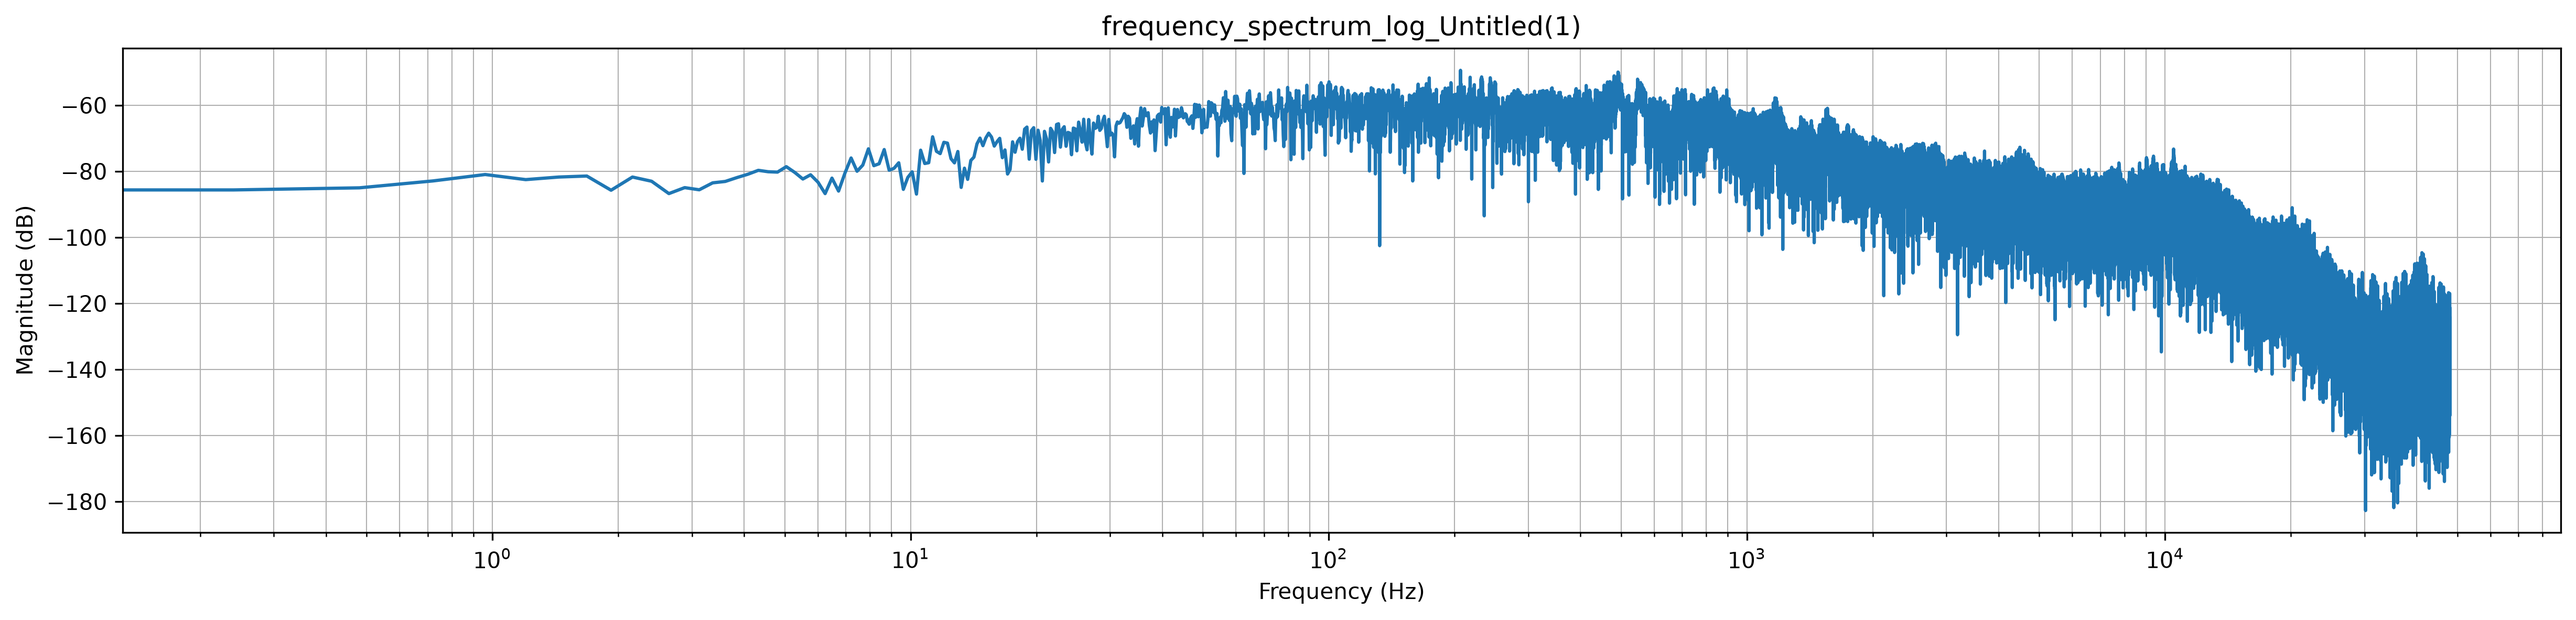
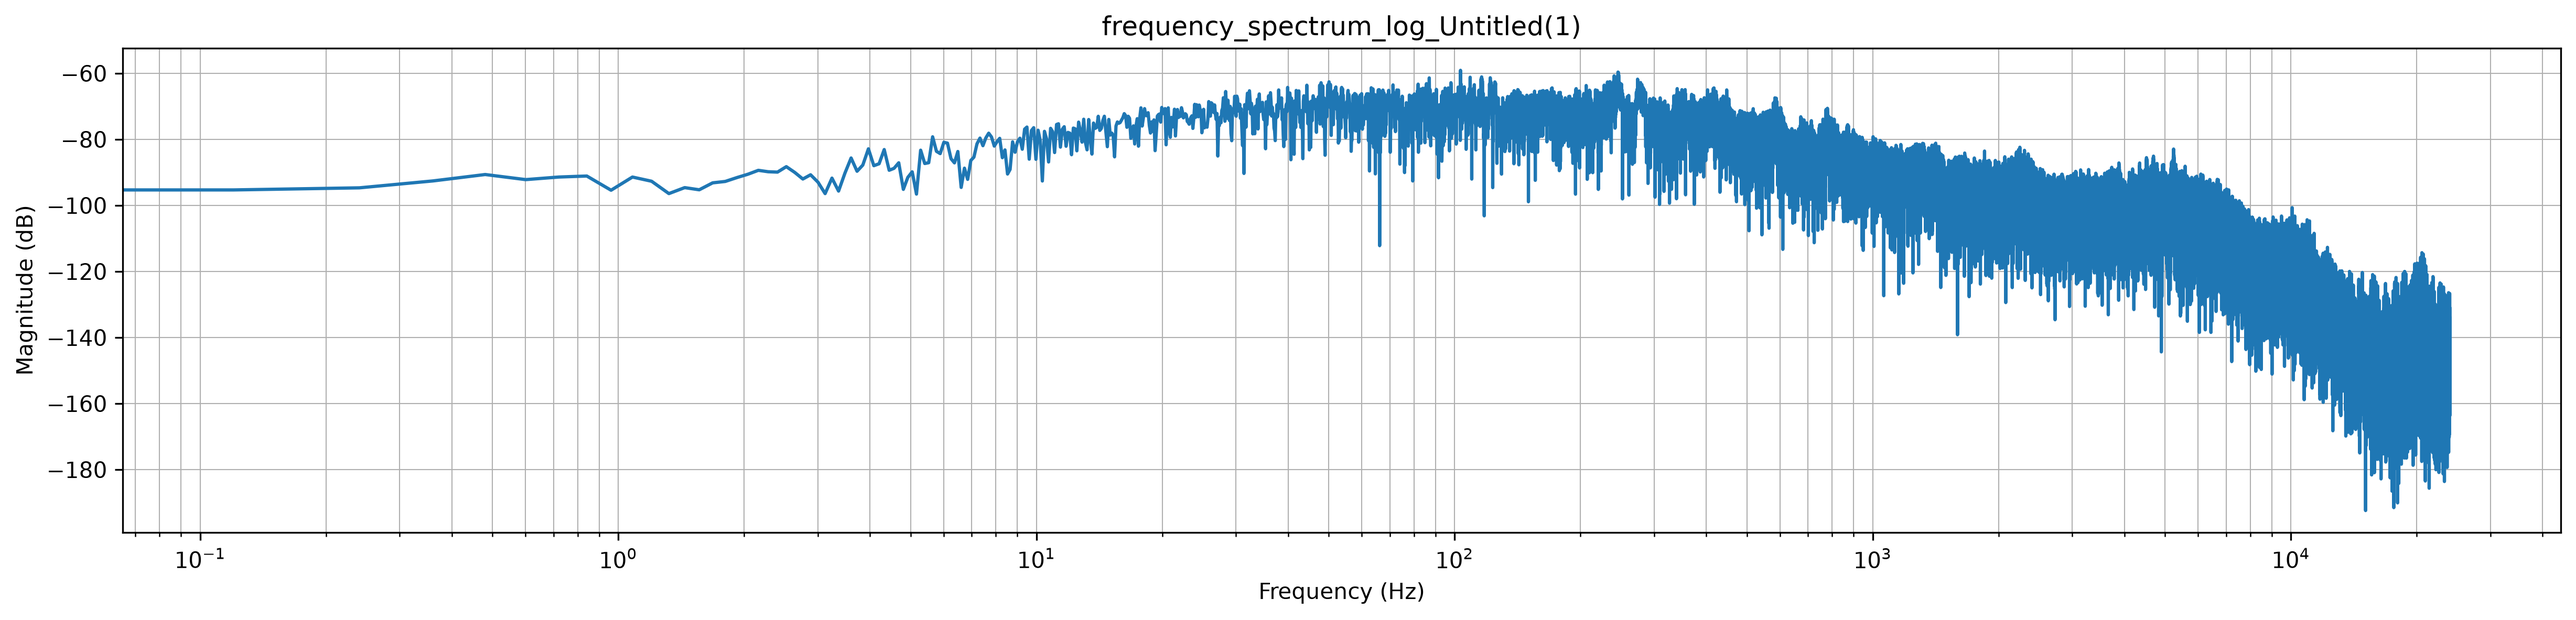
JM - Implement nprmalization if the input file isn't in np.float32 format

diff --git a/spectrum-analysis.py b/spectrum-analysis.py
@@ -1,0 +1,89 @@
+import numpy as np
+import matplotlib.pyplot as plt
+from pathlib import Path
+from scipy.io import wavfile
+
+IMAGES_DIR = Path("images")
+IMAGES_DIR.mkdir(parents=True, exist_ok=True)
+
+def read_wav_file(file):
+    # open the wav file
+    sample_rate, data = wavfile.read(file)
+
+    time = np.arange(len(data)) / sample_rate
+
+    file_name = Path(file).stem
+
+    # force the data to mono by only taking the first channel if a stereo input was given
+    if data.ndim > 1:
+        data = data[:, 0]
+
+    # Normalize the input to a [-1:1] range - 16-bit PCM files are integers from [-32,768:32,767]
+    # which is why we have to divide them by 32768
+    if data.dtype == np.int16:
+        # 16-bit integer PCM
+        data = data.astype(np.float32) / 32768.0
+    elif data.dtype == np.int32:
+        # 32-bit integer PCM
+        data = data.astype(np.float32) / 2147483648.0
+    elif data.dtype == np.uint8:
+        # 8-bit integer PCM (unsigned, centered at 128)
+        data = (data.astype(np.float32) - 128) / 128
+    # if data is already np.float32, it is already normalized and sits in the range of [-1:1]
+
+    return sample_rate, data, time, file_name
+
+def plot_time_spectrum(time, data, title, original_file_name = ""):
+    plt.figure(figsize=(20, 4))
+    plt.plot(time, data)
+
+    plt.title(f"{title}_{original_file_name}")
+    plt.xlabel('Time (s)')
+    plt.ylabel('Amplitude')
+    plt.grid(True, which='both', linestyle='-', linewidth=0.5)
+    
+    plt.savefig(IMAGES_DIR / f"{title}_{original_file_name}.png", dpi=300, bbox_inches='tight')
+    plt.close()
+
+def plot_frequency_spectrum(dB, data, sample_rate, title, original_file_name = ""):
+    N = len(data)
+
+    # convert spectrum data to frequency domain, remove all frequencies > Nyquist frequency, and normalize the magnitudes
+    spectrum = np.abs(np.fft.fft(data))[:N // 2] / N
+    spectrum[1:-1] *= 2
+
+    # Create an array of len(spectrum) evenly spaced values from 0 to sample_rate Hz
+    frequency_resolution = sample_rate / N
+    frequencies = np.arange(0, N // 2) * frequency_resolution
+
+    if dB:
+        # convert y-axis to decibels
+        spectrum = 20* np.log10(spectrum)
+
+    plt.figure(figsize=(20, 4))
+    plt.semilogx(frequencies, spectrum)
+    plt.title(f"{title}_{original_file_name}")
+    plt.xlabel("Frequency (Hz)")
+    if dB:
+        plt.ylabel("Magnitude (dB)")
+    else:
+        plt.ylabel("Magnitude")
+    plt.grid(True, which='both', linestyle='-', linewidth=0.5)
+    plt.savefig(IMAGES_DIR / f"{title}_{original_file_name}.png", dpi=300, bbox_inches="tight")
+    plt.close()
+
+
+if __name__ == "__main__":
+    file_paths = ["Untitled(1).wav", "ewan_01_1m.wav", "ewan_01_5cm.wav"]
+
+    for file_path in file_paths:
+        if Path(file_path).exists():
+            sample_rate_5cm, data_5cm, time_5cm, file_name = read_wav_file(file_path)
+    
+            plot_time_spectrum(time_5cm, data_5cm, 'time_spectrum', file_name)
+            plot_frequency_spectrum(False, data_5cm, sample_rate_5cm, "frequency_spectrum", file_name)
+            plot_frequency_spectrum(True, data_5cm, sample_rate_5cm, "frequency_spectrum_log", file_name)
+
+
+        else:
+            print(f"Error: {file_path} not found")  
